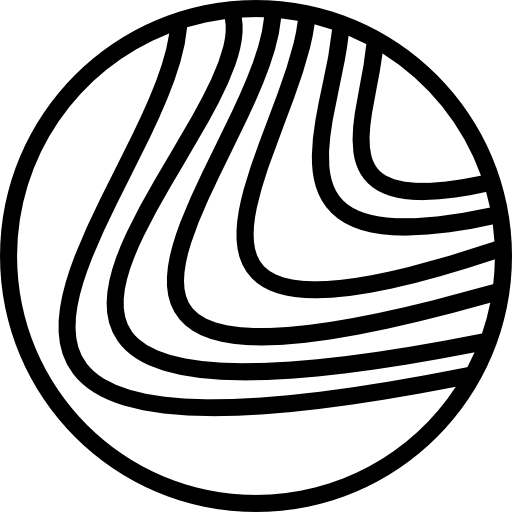
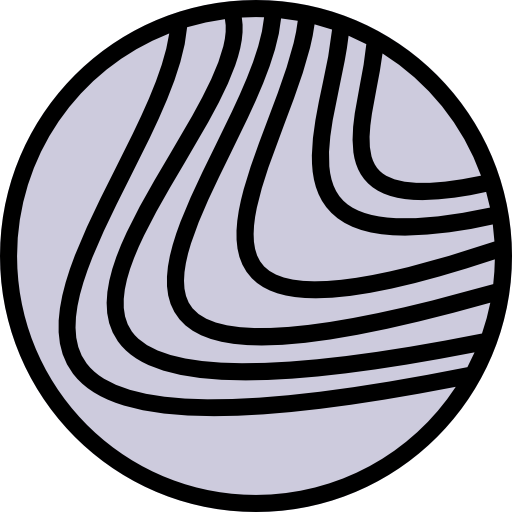
Mudança cor e imagem

diff --git a/index.html b/index.html
@@ -420,7 +420,7 @@
               dolor do amet sint. Velit officia consequat duis enim. Amet minim
               mollit non deserunt ullamco est sit aliqua dolor do amet sint.
               <br /><br /><a class="about-class" href="./about.html"
-                >SAIBA MAIS&gt&gt</a
+                ><strong>SAIBA MAIS&gt&gt</strong></a
               >
             </p>
           </div>

diff --git a/style.css b/style.css
@@ -19,8 +19,8 @@
   --primary-color: hsl(233, 82%, 34%);
   --secondary-color: hsl(232, 64%, 15%);
 
-  --blue-smoth-grey: hsl(233, 12%, 72%);
-  --blue-dark-gray: hsl(235, 14%, 47%);
+  --blue-smoth-grey: hsl(231, 20%, 82%);
+  --blue-dark-gray: hsl(233, 10%, 49%);
   --backgroun-color: hsl(249, 21%, 83%);
   --white: hsl(180, 100%, 97%);
 
